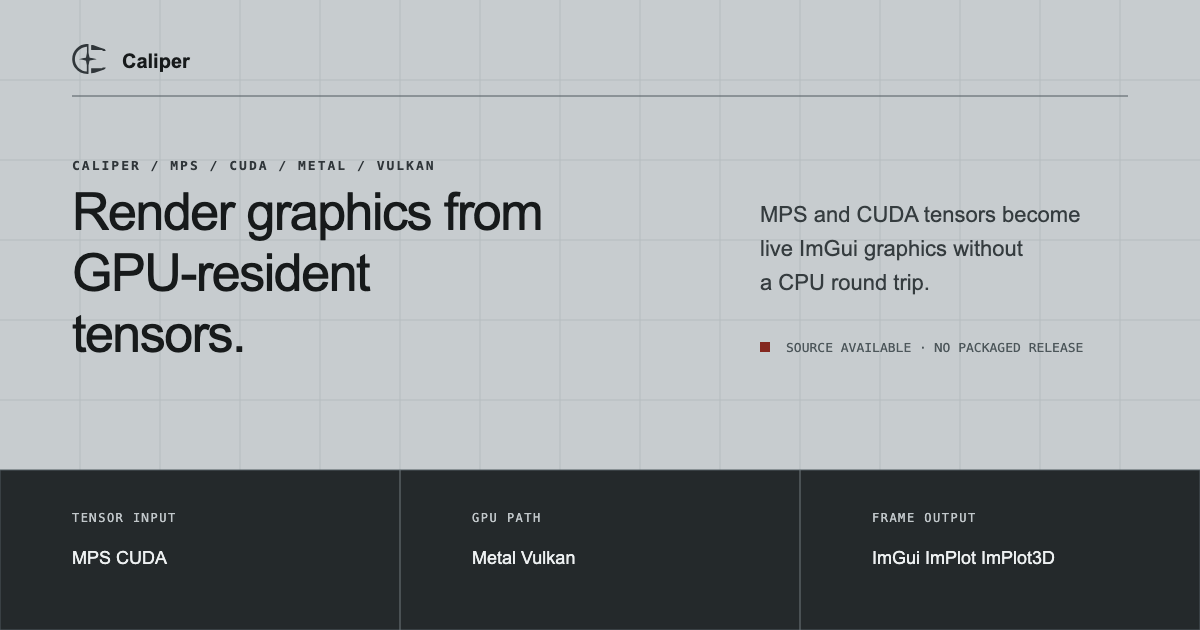
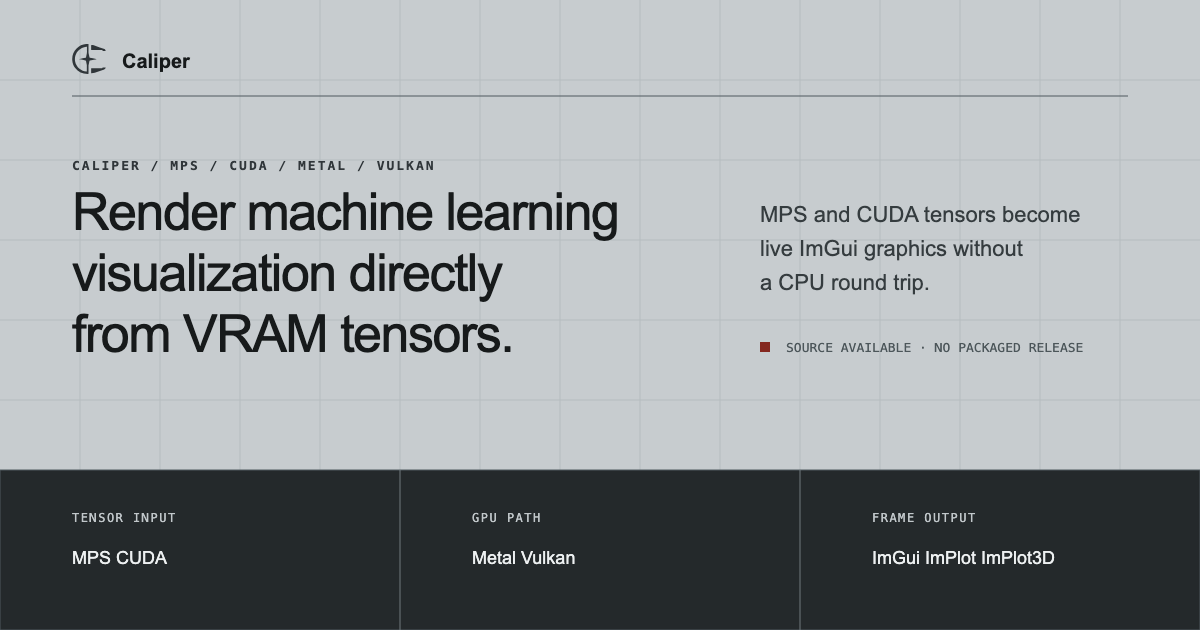
Refine machine learning headline

Changed region(s): [[0.0617, 0.3016, 0.5242, 0.573]]

diff --git a/site/index.html b/site/index.html
@@ -3,7 +3,7 @@
 <head>
   <meta charset="utf-8">
   <meta name="viewport" content="width=device-width, initial-scale=1">
-  <title>Caliper — graphics from GPU-resident tensors</title>
+  <title>Caliper — machine learning visualization from VRAM tensors</title>
   <meta name="description" content="Caliper renders MPS and CUDA tensors as live ImGui graphics without CPU staging on its native Metal and Vulkan paths.">
   <meta name="theme-color" content="#c7cccf">
   <meta name="color-scheme" content="light">
@@ -13,7 +13,7 @@
 
   <meta property="og:type" content="website">
   <meta property="og:site_name" content="Caliper">
-  <meta property="og:title" content="Caliper — graphics from GPU-resident tensors">
+  <meta property="og:title" content="Caliper — machine learning visualization from VRAM tensors">
   <meta property="og:description" content="Render MPS and CUDA tensors as live ImGui graphics without a CPU round trip.">
   <meta property="og:url" content="https://ahmedkhan-gh.github.io/caliper/">
   <meta property="og:image" content="https://ahmedkhan-gh.github.io/caliper/assets/og.png">
@@ -42,7 +42,7 @@
     <section class="home-hero container" id="hero">
       <div>
         <p class="section-label">Caliper / C++ / Metal / Vulkan</p>
-        <h1>Render graphics from GPU-resident tensors.</h1>
+        <h1>Render machine learning visualization directly from VRAM tensors.</h1>
       </div>
       <div class="hero-summary">
         <p>Caliper turns MPS and CUDA tensors into live ImGui graphics. Its Metal and Vulkan paths keep dense image and geometry views off the CPU staging path.</p>
